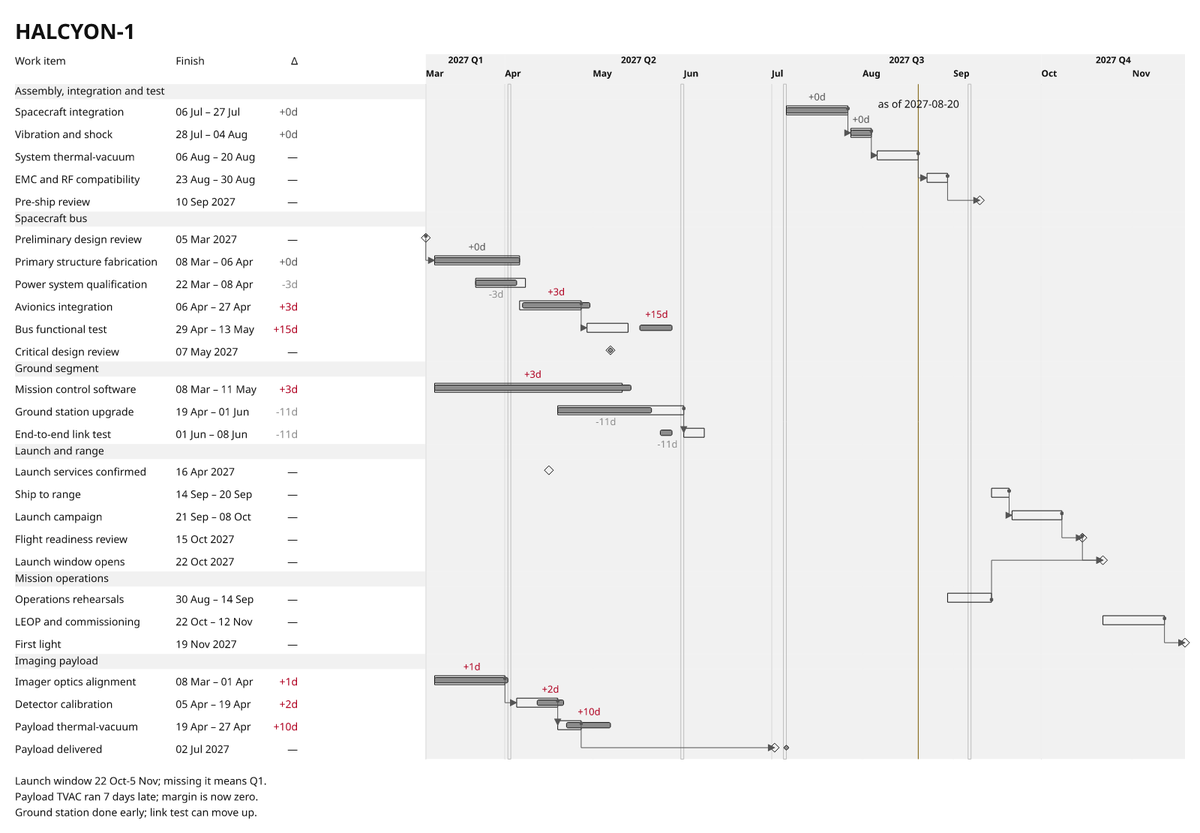
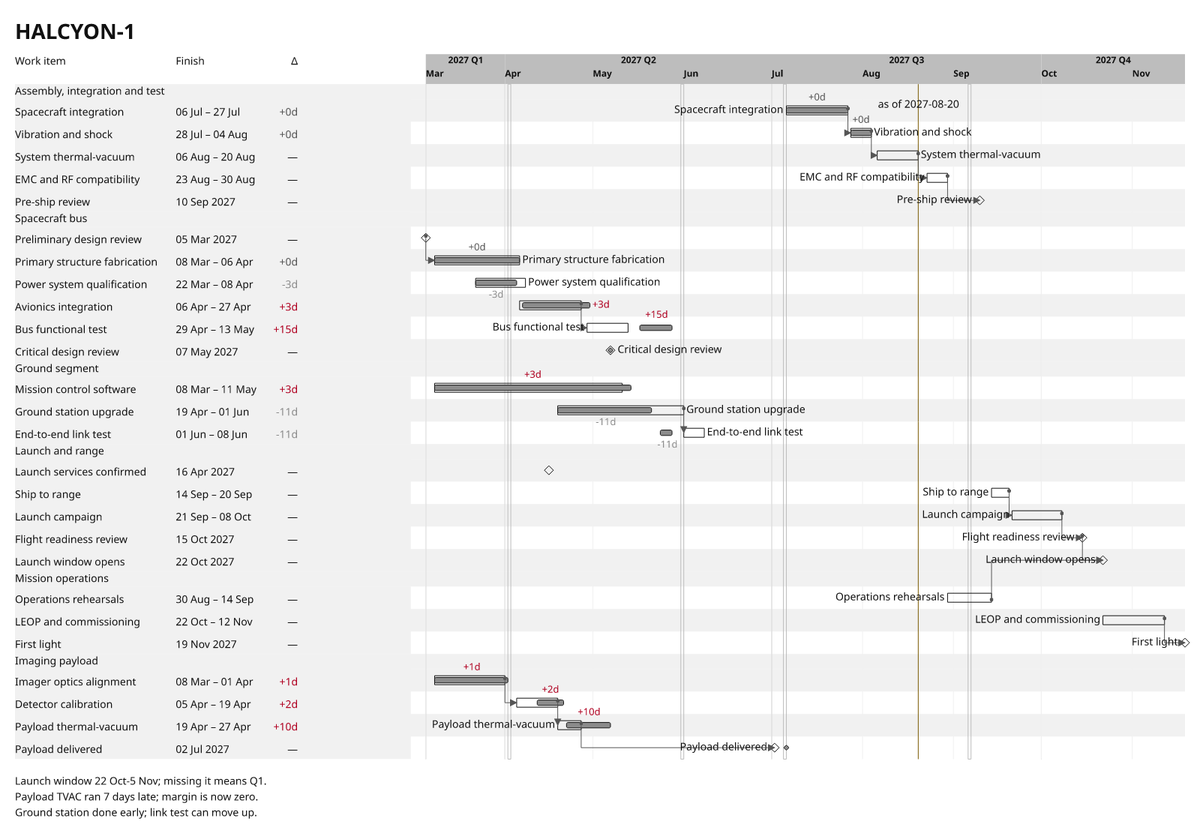
presets: add row guides and a visible axis boundary to print-mono
Row stripes now run from the table to the timeline's right edge, and each
bar is labelled with its name at its end, so a bar on the right of a wide
timeline can be matched to its task. The axis band is painted in neutral
instead of the group-band colour, so the axis visibly ends where the plot
begins. YAML only.

Refs #470

diff --git a/docs/research/presentation/preset-tuning/print-mono/README.md b/docs/research/presentation/preset-tuning/print-mono/README.md
@@ -35,3 +35,15 @@ HALCYON-1: 1600 × 1111, with no warnings (before: 1600 × 1487). The starter ke
 
 - **`print-mono` is not monochrome.** Its colour scheme (`examples/halcyon-1/schemes/print-mono.yaml`, shared with the corpus) paints slips in `negative: #B00020`, which is red, and the as-of line in `warning: #7A5A00`, which is olive. On a monochrome printer, both collapse to mid-grey. A print preset needs another cue for slips, for example weight or a sign glyph. The scheme is shared with committed corpus slides, so this PR leaves it alone.
 - The two observations from `mission-light` and `control-room-dark` apply here as well: missing-actual marks on work not yet due, and arrowhead source terminals by default. This preset avoids both.
+
+## Update: row guides and a visible axis boundary
+
+Added after review feedback. On a wide timeline, a bar on the right could only be matched to its task by following the row back to the table, and the axis blended into the plot.
+
+| Member | Change | Vocabulary used |
+| --- | --- | --- |
+| View + Layout | alternating row stripes run from the table to the timeline's right edge; group bands are kept to the table | `backgroundDecoration.rows: alternate`, `backgroundExtents.rowBand: both, groupBand: table` |
+| View | each bar is labelled with its name at its end, in its own row, as well as in the table | `visibility.labels.placement: plot, side: end`, fallback `[end, start, suppress]` |
+| Theme | the axis band is painted in `neutral` at full opacity, not the group-band colour, so the axis ends visibly where the plot begins | `colorBindings.axis-band-decoration.fill`, `roles.axis-band-decoration.opacity` |
+
+HALCYON-1 still renders with no warnings. The limits met while doing this are recorded in the `executive-light` README (items 2 and 4–6) and in #470: no axis baseline rule, labels not avoiding dependency lines, suppressed labels leaving no trace, and plot-and-table labels not being a declared choice.
